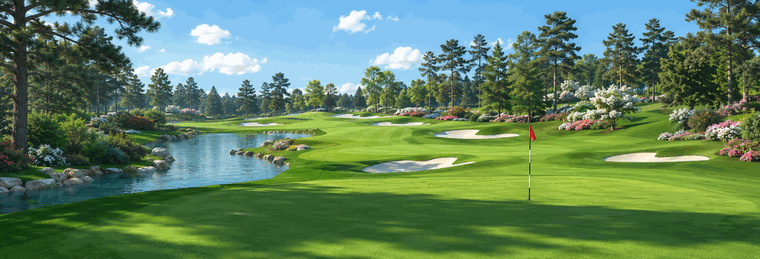
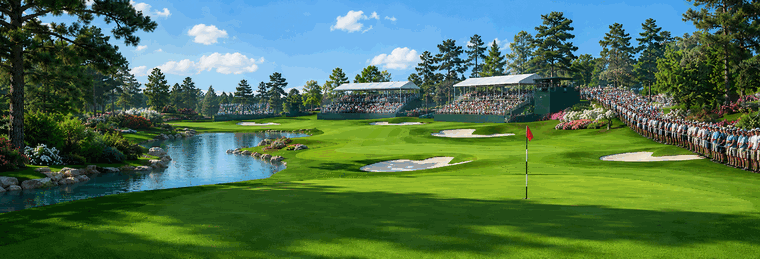
Add files via upload

diff --git a/game-modes.js b/game-modes.js
@@ -317,24 +317,46 @@
     return b;
   }
 
-  // big mode button for the home page
-  function modeButton(label, sub, icon, grad, onClick) {
+  // big mode button for the home page — photo banner behind, dark scrim for text
+  function modeButton(label, sub, icon, grad, onClick, bgImg) {
     var b = document.createElement('button');
-    b.style.cssText = 'display:block;width:100%;margin-bottom:12px;padding:20px 18px;border:1px solid rgba(255,226,122,.3);border-radius:18px;cursor:pointer;text-align:left;' +
-      'background:' + grad + ';color:#fff;box-shadow:0 8px 22px rgba(0,0,0,.26);transition:transform .15s;';
-    b.innerHTML = '<div style="font:950 19px system-ui;display:flex;align-items:center;gap:10px;">' + icon + ' ' + label + '</div>' +
-      '<div style="font:800 12px system-ui;color:rgba(255,255,255,.82);margin-top:4px;">' + sub + '</div>';
+    b.style.cssText = 'position:relative;display:block;width:100%;margin-bottom:12px;padding:22px 18px;border:1px solid rgba(255,226,122,.3);border-radius:18px;cursor:pointer;text-align:left;overflow:hidden;' +
+      'background:' + grad + ';color:#fff;box-shadow:0 8px 22px rgba(0,0,0,.26);transition:transform .15s;min-height:84px;';
+    if (bgImg) {
+      var bg = document.createElement('div');
+      bg.style.cssText = 'position:absolute;inset:0;background-image:url("' + bgImg + '");background-size:cover;background-position:center;opacity:0;transition:opacity .35s;';
+      var im = new Image(); im.onload = function () { bg.style.opacity = '1'; }; im.src = bgImg;
+      var scrim = document.createElement('div');
+      scrim.style.cssText = 'position:absolute;inset:0;background:linear-gradient(90deg,rgba(8,18,10,.82) 0%,rgba(8,18,10,.5) 55%,rgba(8,18,10,.25) 100%);';
+      b.appendChild(bg); b.appendChild(scrim);
+    }
+    var content = document.createElement('div');
+    content.style.cssText = 'position:relative;z-index:1;';
+    content.innerHTML = '<div style="font:950 19px system-ui;display:flex;align-items:center;gap:10px;text-shadow:0 1px 4px rgba(0,0,0,.5);">' + icon + ' ' + label + '</div>' +
+      '<div style="font:800 12px system-ui;color:rgba(255,255,255,.9);margin-top:4px;text-shadow:0 1px 3px rgba(0,0,0,.5);">' + sub + '</div>';
+    b.appendChild(content);
     b.addEventListener('click', onClick);
     b.addEventListener('mouseenter', function () { this.style.transform = 'translateY(-2px)'; });
     b.addEventListener('mouseleave', function () { this.style.transform = 'none'; });
     return b;
   }
 
-  // secondary tile (practice / shop / achievements)
-  function secondaryTile(label, icon, onClick) {
+  // secondary tile (practice / shop / awards) — optional photo background
+  function secondaryTile(label, icon, onClick, bgImg) {
     var b = document.createElement('button');
-    b.style.cssText = 'flex:1;min-width:0;padding:14px 8px;border:1px solid rgba(238,248,216,.16);border-radius:14px;background:rgba(255,255,255,.05);color:#eef8d8;font:900 12px system-ui;cursor:pointer;';
-    b.innerHTML = '<div style="font-size:20px;">' + icon + '</div><div style="margin-top:4px;">' + label + '</div>';
+    b.style.cssText = 'position:relative;flex:1;min-width:0;padding:14px 8px;border:1px solid rgba(238,248,216,.16);border-radius:14px;background:rgba(255,255,255,.05);color:#eef8d8;font:900 12px system-ui;cursor:pointer;overflow:hidden;min-height:72px;';
+    if (bgImg) {
+      var bg = document.createElement('div');
+      bg.style.cssText = 'position:absolute;inset:0;background-image:url("' + bgImg + '");background-size:cover;background-position:center;opacity:0;transition:opacity .35s;';
+      var im = new Image(); im.onload = function () { bg.style.opacity = '1'; }; im.src = bgImg;
+      var scrim = document.createElement('div');
+      scrim.style.cssText = 'position:absolute;inset:0;background:linear-gradient(180deg,rgba(8,18,10,.35),rgba(8,18,10,.72));';
+      b.appendChild(bg); b.appendChild(scrim);
+    }
+    var content = document.createElement('div');
+    content.style.cssText = 'position:relative;z-index:1;';
+    content.innerHTML = '<div style="font-size:20px;text-shadow:0 1px 3px rgba(0,0,0,.6);">' + icon + '</div><div style="margin-top:4px;text-shadow:0 1px 3px rgba(0,0,0,.6);">' + label + '</div>';
+    b.appendChild(content);
     b.addEventListener('click', onClick);
     return b;
   }
@@ -370,18 +392,18 @@
 
     // three primary mode buttons (banner pics can replace these later)
     shell.appendChild(modeButton('Quick Play', 'Jump into any course, hole by hole', '▶',
-      'linear-gradient(135deg,#3fae5e,#1f7a3f)', function () { MODE = 'quick'; renderCourseMenuV045(); }));
+      'linear-gradient(135deg,#3fae5e,#1f7a3f)', function () { MODE = 'quick'; renderCourseMenuV045(); }, 'mode-quick.png'));
     shell.appendChild(modeButton('Tournament', '18 holes vs a simulated field', '🏆',
-      'linear-gradient(135deg,#3a7d8c,#1d5773)', function () { MODE = 'tournament'; renderCourseMenuV045(); }));
+      'linear-gradient(135deg,#3a7d8c,#1d5773)', function () { MODE = 'tournament'; renderCourseMenuV045(); }, 'mode-tournament.png'));
     shell.appendChild(modeButton('Career', 'Climb the tours, build your fame', '📈',
-      'linear-gradient(135deg,#8a5a2a,#5a3a18)', function () { MODE = 'career'; renderCourseMenuV045(); }));
+      'linear-gradient(135deg,#8a5a2a,#5a3a18)', function () { MODE = 'career'; renderCourseMenuV045(); }, 'mode-career.png'));
 
     // secondary row: practice / shop / achievements
     var row = document.createElement('div');
     row.style.cssText = 'display:flex;gap:10px;margin-top:8px;';
-    row.appendChild(secondaryTile('Practice', '🏌️', function () { MODE = 'practice'; renderCourseMenuV045(); }));
-    row.appendChild(secondaryTile('Shop', '🛍️', function () { MODE = 'shop'; renderCourseMenuV045(); }));
-    row.appendChild(secondaryTile('Awards', '🏅', function () { MODE = 'awards'; renderCourseMenuV045(); }));
+    row.appendChild(secondaryTile('Practice', '🏌️', function () { MODE = 'practice'; renderCourseMenuV045(); }, 'tile-practice.png'));
+    row.appendChild(secondaryTile('Shop', '🛍️', function () { MODE = 'shop'; renderCourseMenuV045(); }, 'tile-shop.png'));
+    row.appendChild(secondaryTile('Awards', '🏅', function () { MODE = 'awards'; renderCourseMenuV045(); }, 'tile-awards.png'));
     shell.appendChild(row);
 
     // daily challenge sits on the home page too

diff --git a/index.html b/index.html
@@ -94,7 +94,7 @@
   <script src="achievements.js?v=achv3"></script>
   <script src="driving-range.js?v=range2"></script>
   <script src="putting-green.js?v=putt1"></script>
-  <script src="game-modes.js?v=modes4"></script>
+  <script src="game-modes.js?v=modes5"></script>
   <script src="camera-polish-v051.js?v=cam2"></script>
   <script src="camera-shot-framing-v052.js?v=round068"></script>
   <script src="camera-settle-putt-v053.js?v=round068"></script>